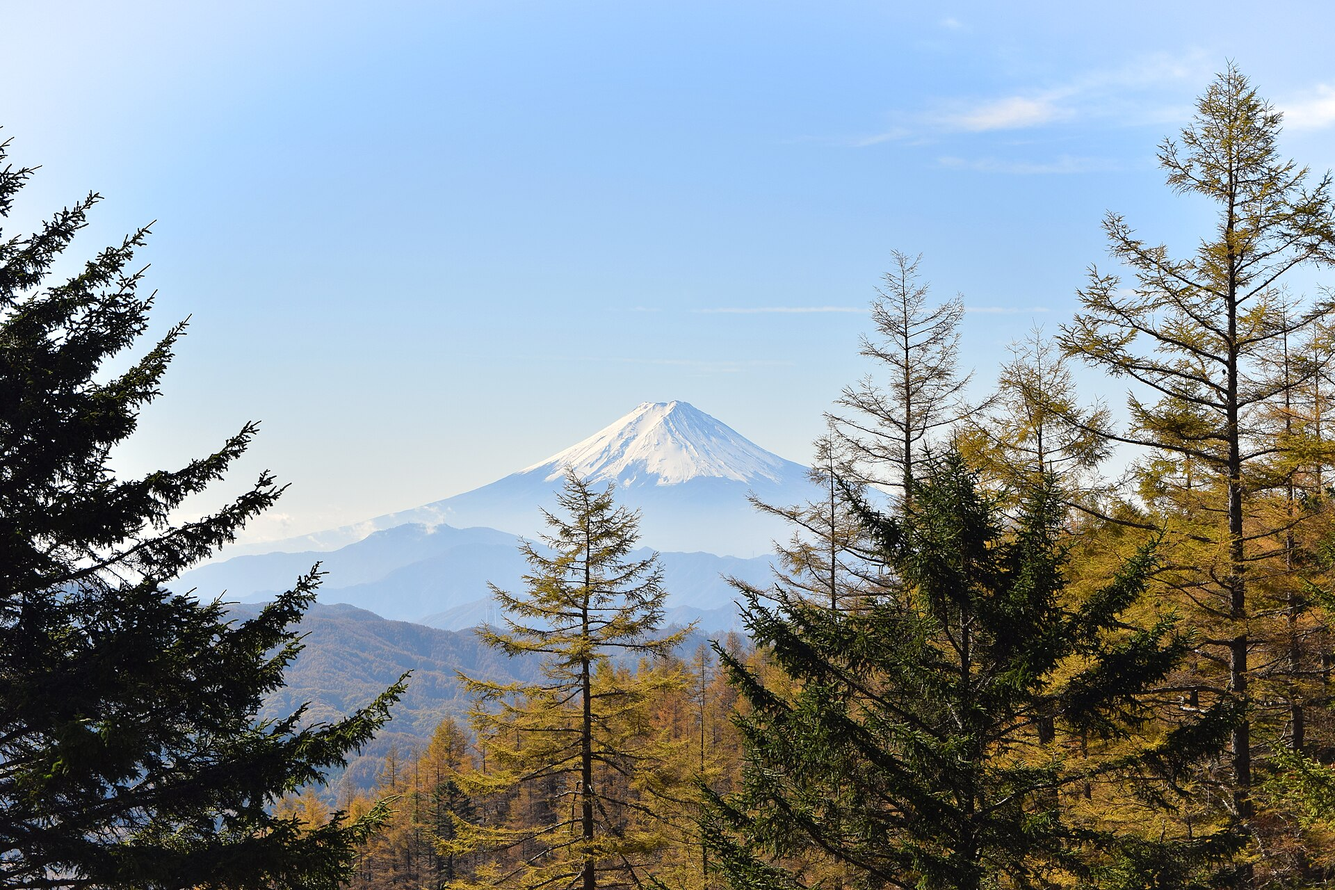
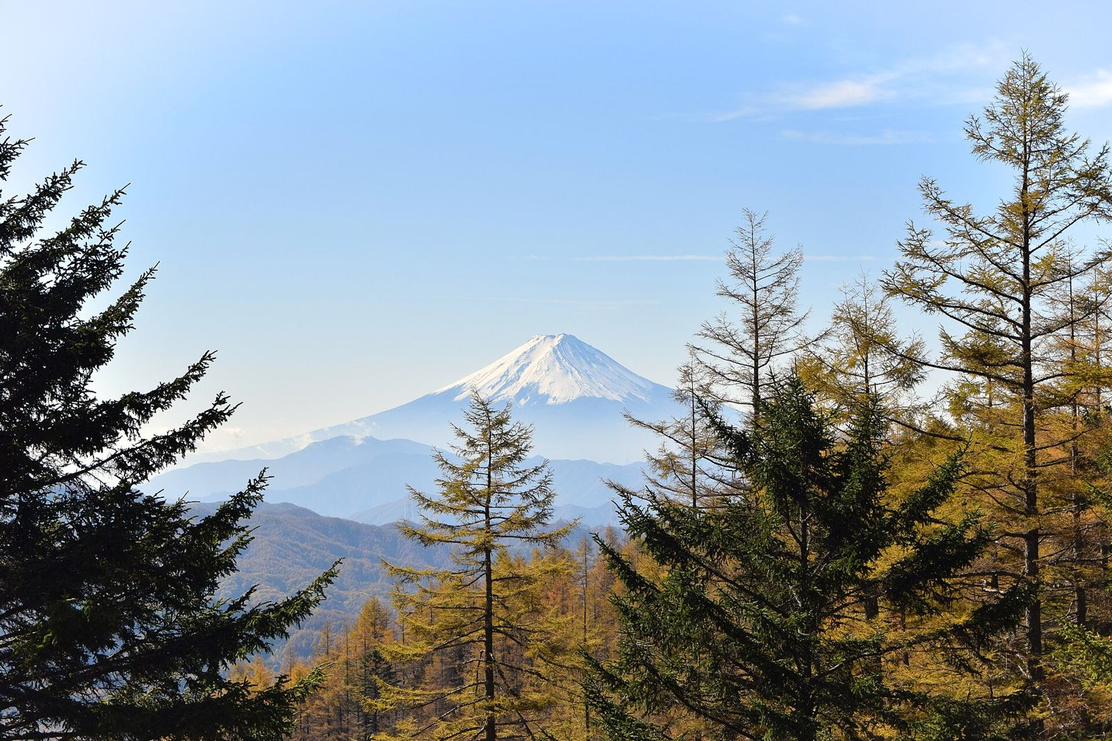
Update Fuji viewpoint research photos (in progress)
Claude-Session: https://claude.ai/code/session_011McDrVAbHH6L6ExmG8jfCd

diff --git a/research_notes/Verborgen Fuji fotolocaties/long_distance.md b/research_notes/Verborgen Fuji fotolocaties/long_distance.md
@@ -214,4 +214,32 @@ The most actionable changes: Kisarazu's Nakanoshima Ohashi is shut every winter 
 
 All were downloaded as 1280 px-wide Commons thumbnails (Commons no longer serves arbitrary 1600 px thumbnails; 1280 px is the nearest standard size) and visually checked. File-page URL pattern: `https://commons.wikimedia.org/wiki/File:<title>`.
 
-PHOTO_TABLE_PLACEHOLDER
+| Local file | Spot / what it shows (checked visually) | Commons file page | Author | License |
+|---|---|---|---|---|
+| `photos/far_takabotchi_1.jpg` | Takabotchi: Lake Suwa, azaleas in foreground, small Fuji on the horizon between Yatsugatake and the Southern Alps — exactly the classic composition (early-summer dawn). Excellent. | [File:View from Takabocchi early in the morning.jpg](https://commons.wikimedia.org/wiki/File:View_from_Takabocchi_early_in_the_morning.jpg) | TAKAO_Tsushima | CC BY 4.0 |
+| `photos/far_amariyama_2.jpg` | Amariyama summit slope covered in orange azaleas under cloud. NO Fuji visible (context only; no free Fuji-from-Amariyama photo found on Commons). | [File:甘利山のレンゲツツジ2.jpg](https://commons.wikimedia.org/wiki/File:%E7%94%98%E5%88%A9%E5%B1%B1%E3%81%AE%E3%83%AC%E3%83%B3%E3%82%B2%E3%83%84%E3%83%84%E3%82%B82.jpg) | Koda6029 | CC BY-SA 4.0 |
+| `photos/far_hottarakashi_1.jpg` | Night view of the Kofu basin from the Hottarakashi Onsen grounds. Fuji NOT discernible (dark sky) — context only. | [File:Kofu-Basin from Hottarakashi Onsen 01.jpg](https://commons.wikimedia.org/wiki/File:Kofu-Basin_from_Hottarakashi_Onsen_01.jpg) | Σ64 | CC BY 3.0 |
+| `photos/far_fruitpark_1.jpg` | Fuefukigawa Fruit Park: tulips in front, Kofu basin, snow-capped Fuji above the Misaka range. Very good. | [File:From Fruit park the view of Kofu basin and Mt. Fuji.jpg](https://commons.wikimedia.org/wiki/File:From_Fruit_park_the_view_of_Kofu_basin_and_Mt._Fuji.jpg) | さかおり (Sakaori) | CC BY-SA 3.0 |
+| `photos/far_fruitpark_3.jpg` | Fuefukigawa Fruit Park: wide view over the park and misty basin to Fuji. Good. | [File:笛吹川フルーツ公園 - panoramio.jpg](https://commons.wikimedia.org/wiki/File:%E7%AC%9B%E5%90%B9%E5%B7%9D%E3%83%95%E3%83%AB%E3%83%BC%E3%83%84%E5%85%AC%E5%9C%92_-_panoramio.jpg) | funk bass | CC BY 3.0 |
+| `photos/far_minobu_1.jpg` | Fuji above ridges with the Fuji River valley below; found via the 身延山 search, consistent with the Minobu-san summit east view but exact standpoint NOT verified (file page not readable). Small original (800 px). | [File:Mt Fuji and Fujikawa-river.jpg](https://commons.wikimedia.org/wiki/File:Mt_Fuji_and_Fujikawa-river.jpg) | Sphl | CC BY-SA 3.0 |
+| `photos/far_shichimen_1.jpg` | Shichimen-san: temple gate at Keishin-in in snow (file name '2nd gate'; probably the Zuishin-mon, unverified). NO Fuji visible — context only; no free Diamond Fuji photo from Shichimen-san found on Commons. | [File:MtShichimen 2ndGate.jpg](https://commons.wikimedia.org/wiki/File:MtShichimen_2ndGate.jpg) | サフィル | CC BY-SA 4.0 |
+| `photos/far_daibosatsu_1.jpg` | Daibosatsu ridge: grassy ridge, Lake Daibosatsu (reservoir) and Fuji — the classic Kaminari-iwa-type view. Excellent. | [File:Daibosatsurei panorama (51751525340).jpg](https://commons.wikimedia.org/wiki/File:Daibosatsurei_panorama_%2851751525340%29.jpg) | Raita Futo | CC BY 2.0 |
+| `photos/far_daibosatsu_2.jpg` | Fuji framed by golden larches; same Flickr series as the Daibosatsu panorama (Nov), exact standpoint unverified. Very good. | [File:Mt. Fuji (51749821257).jpg](https://commons.wikimedia.org/wiki/File:Mt._Fuji_%2851749821257%29.jpg) | Raita Futo | CC BY 2.0 |
+| `photos/far_kumotori_1.jpg` | Fuji from the summit of Kumotori-yama with trail signpost, layered blue ridges. Excellent. | [File:雲取山山頂からの富士山.jpg](https://commons.wikimedia.org/wiki/File:%E9%9B%B2%E5%8F%96%E5%B1%B1%E5%B1%B1%E9%A0%82%E3%81%8B%E3%82%89%E3%81%AE%E5%AF%8C%E5%A3%AB%E5%B1%B1.jpg) | Koda6029 | CC BY-SA 4.0 |
+| `photos/far_kumotori_2.jpg` | Telephoto Fuji with cloud cap over layered ridges from Kumotori summit. Very good. | [File:Mount Fuji @ Summit of Mount Kumotori (11169574036).jpg](https://commons.wikimedia.org/wiki/File:Mount_Fuji_%40_Summit_of_Mount_Kumotori_%2811169574036%29.jpg) | Guilhem Vellut | CC BY 2.0 |
+| `photos/far_futtsu_2.jpg` | Futtsu (Commons category 'Views of Mount Fuji from Futtsu'): surf on dark rocks, Miura peninsula and Fuji with clouds. Good; exact beach unverified. | [File:岩場と富士山 - panoramio.jpg](https://commons.wikimedia.org/wiki/File:%E5%B2%A9%E5%A0%B4%E3%81%A8%E5%AF%8C%E5%A3%AB%E5%B1%B1_-_panoramio.jpg) | certified (Panoramio user) | CC BY 3.0 |
+| `photos/far_futtsu_3.jpg` | Futtsu, Shimosu beach (下州海岸, next to Futtsu Cape): telephoto Fuji above the Kanagawa shore across blue Tokyo Bay. Very good. | [File:下州海岸 - panoramio.jpg](https://commons.wikimedia.org/wiki/File:%E4%B8%8B%E5%B7%9E%E6%B5%B7%E5%B2%B8_-_panoramio.jpg) | certified (Panoramio user) | CC BY 3.0 |
+| `photos/far_kyonan_1.jpg` | Kyonan (Yoshihama): large pale Fuji above a harbour breakwater, strong telephoto compression. Good. | [File:Yoshihama, Kyonan, Awa District, Chiba Prefecture 299-1908, Japan - panoramio.jpg](https://commons.wikimedia.org/wiki/File:Yoshihama%2C_Kyonan%2C_Awa_District%2C_Chiba_Prefecture_299-1908%2C_Japan_-_panoramio.jpg) | ESU | CC BY 3.0 |
+| `photos/far_tateyama_1.jpg` | Tateyama: town lights at dusk, orange afterglow, Fuji silhouette across the bay (from a hill, likely Shiroyama park — unverified). Very good. | [File:Tateyama, Chiba Prefecture 294-0036, Japan - panoramio.jpg](https://commons.wikimedia.org/wiki/File:Tateyama%2C_Chiba_Prefecture_294-0036%2C_Japan_-_panoramio.jpg) | Fumihiko Ueno | CC BY 3.0 |
+| `photos/far_tateyama_2.jpg` | Tateyama coast: Fuji silhouette at sunset over the sea, framed by pine branches. Very good. | [File:Fuji - panoramio.jpg](https://commons.wikimedia.org/wiki/File:Fuji_-_panoramio.jpg) | ito1117 | CC BY-SA 3.0 |
+| `photos/far_kisarazu_2.jpg` | Kisarazu, Egawa coast: Fuji silhouette reflected in tidal flat with nori-farming poles, pink dusk. Very good. | [File:Chiba-Egawa coast-xl (2).jpg](https://commons.wikimedia.org/wiki/File:Chiba-Egawa_coast-xl_%282%29.jpg) | Akiko_Toshinai | CC BY 4.0 |
+| `photos/far_kisarazu_3.jpg` | Kisarazu, Kaneda seaside: line of utility poles standing in the sea, small Fuji silhouette in afterglow. Striking; poles may no longer exist (see Gaps Q1). | [File:Sunset view at Kaneda seaside 金田海岸の夕暮れ - panoramio.jpg](https://commons.wikimedia.org/wiki/File:Sunset_view_at_Kaneda_seaside_%E9%87%91%E7%94%B0%E6%B5%B7%E5%B2%B8%E3%81%AE%E5%A4%95%E6%9A%AE%E3%82%8C_-_panoramio.jpg) | T.Takida | CC BY 3.0 |
+| `photos/far_takagoyama_1.jpg` | Bonus (not a researched spot): Fuji across Tokyo Bay from Takago-yama (高宕山) in the Boso hills, wooded foreground. Good. | [File:旧餌付小屋裏手から富士山を望む.jpg](https://commons.wikimedia.org/wiki/File:%E6%97%A7%E9%A4%8C%E4%BB%98%E5%B0%8F%E5%B1%8B%E8%A3%8F%E6%89%8B%E3%81%8B%E3%82%89%E5%AF%8C%E5%A3%AB%E5%B1%B1%E3%82%92%E6%9C%9B%E3%82%80.jpg) | Koda6029 | CC BY-SA 4.0 |
+| `photos/far_tamagawa_1.jpg` | Futako-Tamagawa: lit station on the Tama River bridge at dusk with Fuji and Tanzawa silhouette (taken from a high building, Jan 2016). Very good urban angle. | [File:Futako-tamagawa station and Mount Fuji 2016-01-24 (1) as.jpg](https://commons.wikimedia.org/wiki/File:Futako-tamagawa_station_and_Mount_Fuji_2016-01-24_%281%29_as.jpg) | Araisyohei | CC BY 4.0 |
+| `photos/far_shosenkyo_1.jpg` | Shosenkyo / Mt. Rakanji (Commons category 'Views of Mount Fuji from Mount Rakanji'): hazy blue Fuji framed by a red pine. Good. | [File:2017-11-03 View of Mount Fuji from mountain 01.jpg](https://commons.wikimedia.org/wiki/File:2017-11-03_View_of_Mount_Fuji_from_mountain_01.jpg) | Cheng-en Cheng | CC BY-SA 2.0 |
+| `photos/far_shosenkyo_3.jpg` | Shosenkyo ropeway top: telephoto snow-capped Fuji above haze layers and the Kofu basin. Good. | [File:昇仙峡ロープウエイから見た富士山 - panoramio.jpg](https://commons.wikimedia.org/wiki/File:%E6%98%87%E4%BB%99%E5%B3%A1%E3%83%AD%E3%83%BC%E3%83%97%E3%82%A6%E3%82%A8%E3%82%A4%E3%81%8B%E3%82%89%E8%A6%8B%E3%81%9F%E5%AF%8C%E5%A3%AB%E5%B1%B1_-_panoramio.jpg) | Mamusi Taka | CC BY-SA 3.0 |
+| `photos/far_kiyosato_1.jpg` | Pre-dawn Fuji silhouette above fog with bare tree; returned by the '清里 富士山' search, exact standpoint in the Kiyosato area unverified. Very good. | [File:Mount. Fuji early in the morning 早朝の富士山 - panoramio.jpg](https://commons.wikimedia.org/wiki/File:Mount._Fuji_early_in_the_morning_%E6%97%A9%E6%9C%9D%E3%81%AE%E5%AF%8C%E5%A3%AB%E5%B1%B1_-_panoramio.jpg) | Jack Soma | CC BY 3.0 |
+| `photos/far_nobeyama_1.jpg` | Bonus: Fuji with alpenglow on the snow cap from Nobeyama (Nagano side of Kiyosato, ~75 km), dark foreground. Good. | [File:View of Mt.Fuji from Nobeyama.jpg](https://commons.wikimedia.org/wiki/File:View_of_Mt.Fuji_from_Nobeyama.jpg) | TAKAO_Tsushima | CC BY 4.0 |
+
+Notes: no usable free photo was found for Nokogiriyama (the one candidate showed no Fuji and was deleted) or for Diamond Fuji at Shichimen-san/Minobu-san. Three files are context-only without Fuji (Amariyama, Hottarakashi, Shichimen) — clearly marked above. Commons API was heavily rate-limited (HTTP 429) during this session, so the search was not exhaustive; author/license come from the API's extmetadata listing, descriptions on the file pages were not read.
+
